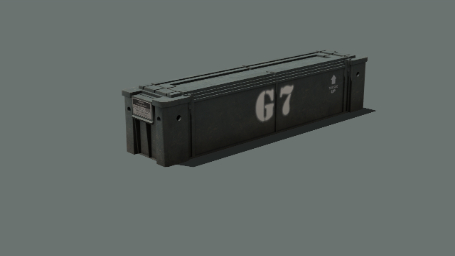
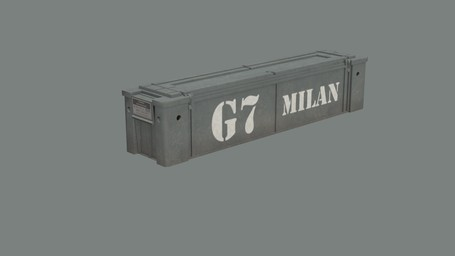
[Resupply] Render crate Eden previews with BIS_fnc_exportEditorPreviews, one preview per crate

Changed region(s): [[0.2769, 0.1875, 0.8308, 0.6562]]

diff --git a/addons/resupply/crates/CfgGolfs.hpp b/addons/resupply/crates/CfgGolfs.hpp
@@ -41,7 +41,7 @@ class GVAR(g1gm) : GVAR(gx) {
     displayName = "G1 (GM-SA)";
     description = "Grab Box - Small Arms Ammo (GreenMag boxes)";
     GVAR(stencil) = "SMALL ARMS GREENMAG";
-    PREVIEW(g1);
+    PREVIEW(g1gm);
     hiddenSelectionsTextures[] = { QPATHTOF(data\golf\g1gm.paa), "A3\Weapons_F\Ammoboxes\data\AmmoBox_CO.paa"};
     class TransportMagazines {
         MACRO_ADDMAGAZINE(CUP_200Rnd_TE4_Red_Tracer_556x45_M249_Pouch,5);
@@ -215,6 +215,7 @@ class GVAR(g15) : GVAR(gx) {
     displayName = "G15 (LGHE)";
     description = "Grab Box - Light Gun HE Shells";
     GVAR(stencil) = "L118 HE";
+    PREVIEW(g15);
     hiddenSelectionsTextures[] = { QPATHTOF(data\golf\g15.paa), "A3\Weapons_F\Ammoboxes\data\AmmoBox_CO.paa"};
     BOX_EXPLOSIVE;
     ace_cargo_hasCargo = 1;
@@ -230,6 +231,7 @@ class GVAR(g16) : GVAR(g15) {
     displayName = "G16 (LGSMK)";
     description = "Grab Box - Light Gun Smoke Shells";
     GVAR(stencil) = "L118 SMOKE";
+    PREVIEW(g16);
     hiddenSelectionsTextures[] = { QPATHTOF(data\golf\g16.paa), "A3\Weapons_F\Ammoboxes\data\AmmoBox_CO.paa"};
     class ACE_Cargo {
         class Cargo {
@@ -241,6 +243,7 @@ class GVAR(g17) : GVAR(g15) {
     displayName = "G17 (LGILLUM)";
     description = "Grab Box - Light Gun Illumination Shells";
     GVAR(stencil) = "L118 ILLUM";
+    PREVIEW(g17);
     hiddenSelectionsTextures[] = { QPATHTOF(data\golf\g17.paa), "A3\Weapons_F\Ammoboxes\data\AmmoBox_CO.paa"};
     class ACE_Cargo {
         class Cargo {
@@ -252,6 +255,7 @@ class GVAR(g18) : GVAR(gx) {
     displayName = "G18 (LGCH)";
     description = "Grab Box - Light Gun Charges";
     GVAR(stencil) = "L118 CHARGES";
+    PREVIEW(g18);
     hiddenSelectionsTextures[] = { QPATHTOF(data\golf\g18.paa), "A3\Weapons_F\Ammoboxes\data\AmmoBox_CO.paa"};
     containerIgnore = 1;
     transportMaxWeapons = 0;
@@ -308,7 +312,7 @@ class GVAR(g14ba) : GVAR(g14) {
     description = "Grab Box - Medical (Bandages)";
     GVAR(stencil) = "MED BANDAGES";
     hiddenSelectionsTextures[] = { QPATHTOF(data\golf\g14ba.paa) };
-    PREVIEW(g14);
+    PREVIEW(g14ba);
     class TransportItems {
         MACRO_ADDITEM(ACE_elasticBandage,250);
         MACRO_ADDITEM(ACE_packingBandage,250);
@@ -321,7 +325,7 @@ class GVAR(g14bl) : GVAR(g14) {
     description = "Grab Box - Medical (Blood)";
     GVAR(stencil) = "MED BLOOD";
     hiddenSelectionsTextures[] = { QPATHTOF(data\golf\g14bl.paa) };
-    PREVIEW(g14);
+    PREVIEW(g14bl);
     class TransportItems {
         MACRO_ADDITEM(ACE_bloodIV_500,50);
         MACRO_ADDITEM(ACE_bloodIV_250,50);
@@ -333,7 +337,7 @@ class GVAR(g14d) : GVAR(g14) {
     description = "Grab Box - Medical (Drugs)";
     GVAR(stencil) = "MED DRUGS";
     hiddenSelectionsTextures[] = { QPATHTOF(data\golf\g14d.paa) };
-    PREVIEW(g14);
+    PREVIEW(g14d);
     class TransportItems {
         MACRO_ADDITEM(ACE_adenosine,100);
         MACRO_ADDITEM(ACE_morphine,100);

diff --git a/tools/crate_labels/previews.py b/tools/crate_labels/previews.py
@@ -1,0 +1,48 @@
+import argparse
+import re
+from pathlib import Path
+
+from PIL import Image
+
+ROOT = Path(__file__).parents[2]
+CRATES = ROOT / "addons/resupply/crates"
+PREVIEWS = ROOT / "addons/resupply/data/previews"
+SIZE = (455, 256)
+
+
+def crate_classes():
+    out = []
+    for f in ["CfgRomeos.hpp", "CfgGolfs.hpp"]:
+        out += re.findall(r"PREVIEW\((\w+)\);", (CRATES / f).read_text())
+    return sorted(set(out))
+
+
+def to_preview(png, jpg):
+    im = Image.open(png).convert("RGB")
+    w, h = im.size
+    assert abs(w / h - 16 / 9) < 0.01, f"{png} is {w}x{h}, not 16:9; set a 16:9 window before exporting"
+    im.resize(SIZE, Image.LANCZOS).save(jpg, "JPEG", quality=90)
+
+
+def main():
+    parser = argparse.ArgumentParser(
+        description="Convert BIS_fnc_exportEditorPreviews PNGs of the Romeo and Golf crates into addons/resupply/data/previews. "
+        "Export first with export_previews.sqf, using the video settings in README.md."
+    )
+    parser.add_argument("exported", type=Path, help="the <profile>\\Screenshots\\EditorPreviews folder, or its mod sub-folder")
+    args = parser.parse_args()
+    pngs = {p.stem.lower(): p for p in args.exported.rglob("uksf_resupply_*.png")}
+    missing = []
+    for cls in crate_classes():
+        png = pngs.get(f"uksf_resupply_{cls}")
+        if png is None:
+            missing.append(cls)
+            continue
+        to_preview(png, PREVIEWS / f"uksf_resupply_{cls}.jpg")
+        print(cls)
+    if missing:
+        raise SystemExit(f"no export for: {' '.join(missing)}")
+
+
+if __name__ == "__main__":
+    main()

diff --git a/addons/resupply/crates/CfgRomeos.hpp b/addons/resupply/crates/CfgRomeos.hpp
@@ -212,6 +212,7 @@ class GVAR(r10) : GVAR(rx) {
     displayName = "R10 (GM-B)";
     description = "Crate - Bullets";
     GVAR(stencil) = "BULLETS";
+    PREVIEW(r10);
     hiddenSelectionsTextures[] = { QPATHTOF(data\romeo\r10.paa) };
     class TransportItems {
         MACRO_ADDITEM(greenmag_ammo_556x45_basic_30Rnd,60);
@@ -248,7 +249,7 @@ class GVAR(rb) : GVAR(rx) {
     displayName = "RB (ReBro)";
     description = "Crate - Re-broadcasting Station";
     GVAR(stencil) = "REBRO";
-    PREVIEW(rx);
+    PREVIEW(rb);
     hiddenSelectionsTextures[] = { QPATHTOF(data\romeo\rb.paa) };
     class ACE_Cargo {
         class Cargo {

diff --git a/tools/crate_labels/README.md b/tools/crate_labels/README.md
@@ -1,0 +1,36 @@
+# Crate labels and previews
+
+The Romeo and Golf crate stencils and Eden previews come from the crate configs. To change a label, edit `GVAR(stencil)` in `addons/resupply/crates/CfgRomeos.hpp` or `CfgGolfs.hpp`. The crate code is the first word of `displayName`. An empty `GVAR(stencil)` paints the code only.
+
+## Regenerate the stencil textures
+
+Run from the repo root. The script needs the Stencil font at `C:/Windows/Fonts/STENCIL.TTF` and `hemtt` on the path.
+
+```
+uv run --with pillow --with numpy --with opencv-python-headless python tools/crate_labels/generate.py [r1 g16 ...]
+```
+
+The script writes `addons/resupply/data/<romeo|golf>/<class>.paa`. Add `--png <folder>` to write PNGs for review instead.
+
+## Regenerate the Eden previews
+
+Each crate has its own `PREVIEW(<class>)` line. The previews use the method in the BI wiki page "Eden Editor: Configuring Asset Previews".
+
+1. Set these video settings before you export. The settings change the look of the previews.
+   - A 16:9 window or resolution, with 100% sampling.
+   - Brightness 0.5.
+   - Object, texture, and shadow quality Very High or better.
+   - FSAA 8x.
+   - PPAA disabled.
+   - Bloom 0.
+   - Depth of field above 0, so that the ground plane and the shadow show.
+   - `HDRPrecision=16` in `Arma3.cfg`.
+2. Load the built modpack and open the Eden Editor on VR.
+3. Run `tools/crate_labels/export_previews.sqf` in the debug console. The function writes PNGs to `<profile>\Screenshots\EditorPreviews`.
+4. Convert the PNGs:
+
+```
+uv run --with pillow python tools/crate_labels/previews.py "<profile>\Screenshots\EditorPreviews"
+```
+
+The script writes `addons/resupply/data/previews/uksf_resupply_<class>.jpg` at 455x256 and stops if a crate has no export.
